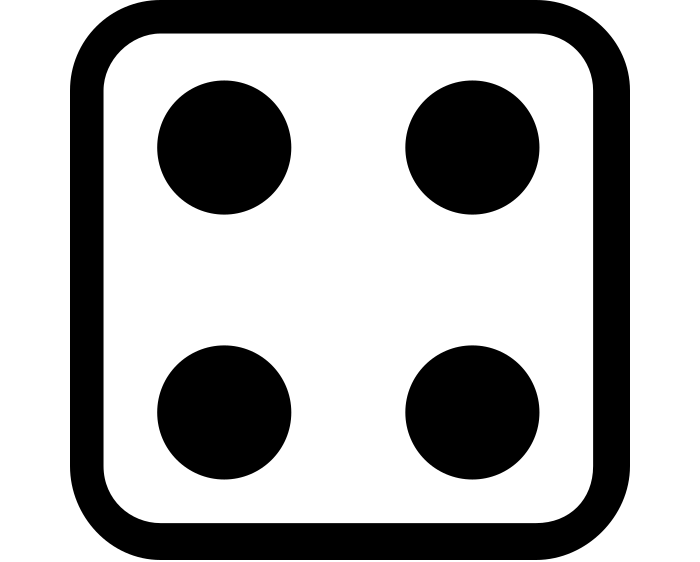
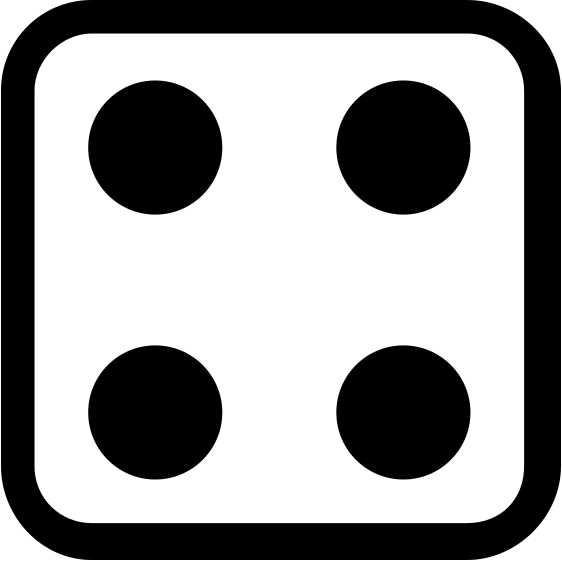
fix: image size

diff --git a/js/script.js b/js/script.js
@@ -78,10 +78,6 @@ loginEl.addEventListener('click', function(){
     let dadoUser = Math.floor(Math.random()*6)+1;
     let dadoPc = Math.floor(Math.random()*6)+1;
 
-    // - Valorizzo la mia src con l'immagine contenuta nell'array delle facce dei dadi (immagini) e la posizione la leggo dalla variabile numeri generati casuali - 1; 
-    userDiceEl.src = diceSrc[dadoUser-1];
-    pcDiceEl.src = diceSrc[dadoPc-1];
-
     // salvo il valore al click
     email = emailEl.value;
 
@@ -105,6 +101,10 @@ loginEl.addEventListener('click', function(){
         if(okLogin==1){
             // ° V1: Stampare nel DOM che l'utente può giocare
             messageEl.innerHTML = 'Puoi giocare :)';
+
+                // - Valorizzo la mia src con l'immagine contenuta nell'array delle facce dei dadi (immagini) e la posizione la leggo dalla variabile numeri generati casuali - 1; 
+                userDiceEl.src = diceSrc[dadoUser-1];
+                pcDiceEl.src = diceSrc[dadoPc-1];
 
                 // GIOCO DEI DADI
                 if(recordWL.length<3){

diff --git a/css/style.css b/css/style.css
@@ -85,7 +85,7 @@ h1{
 
     width: 600px;
     height: 100%;
-    background-color: #ffffff;
+    background-color: #ffffff20;
     border-radius: 20px;
 }
 
@@ -107,5 +107,5 @@ h1{
 }
 
 .board [class^="board"] img{
-    width: 100%;
+    width: 50%;
 }
